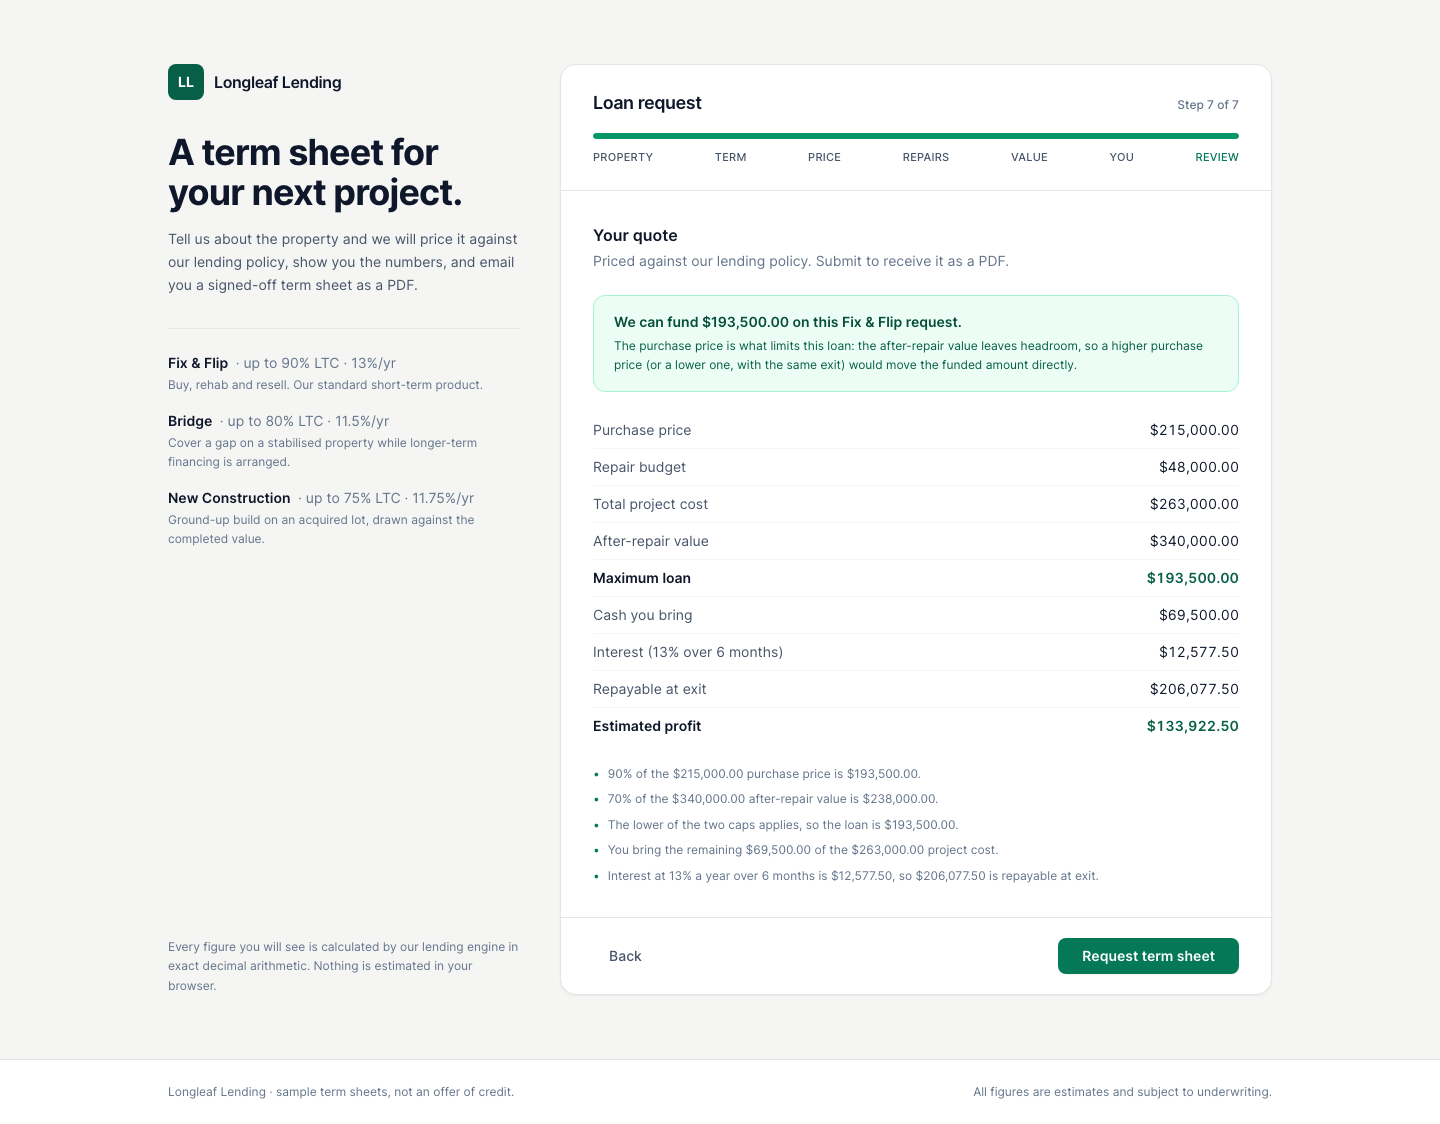
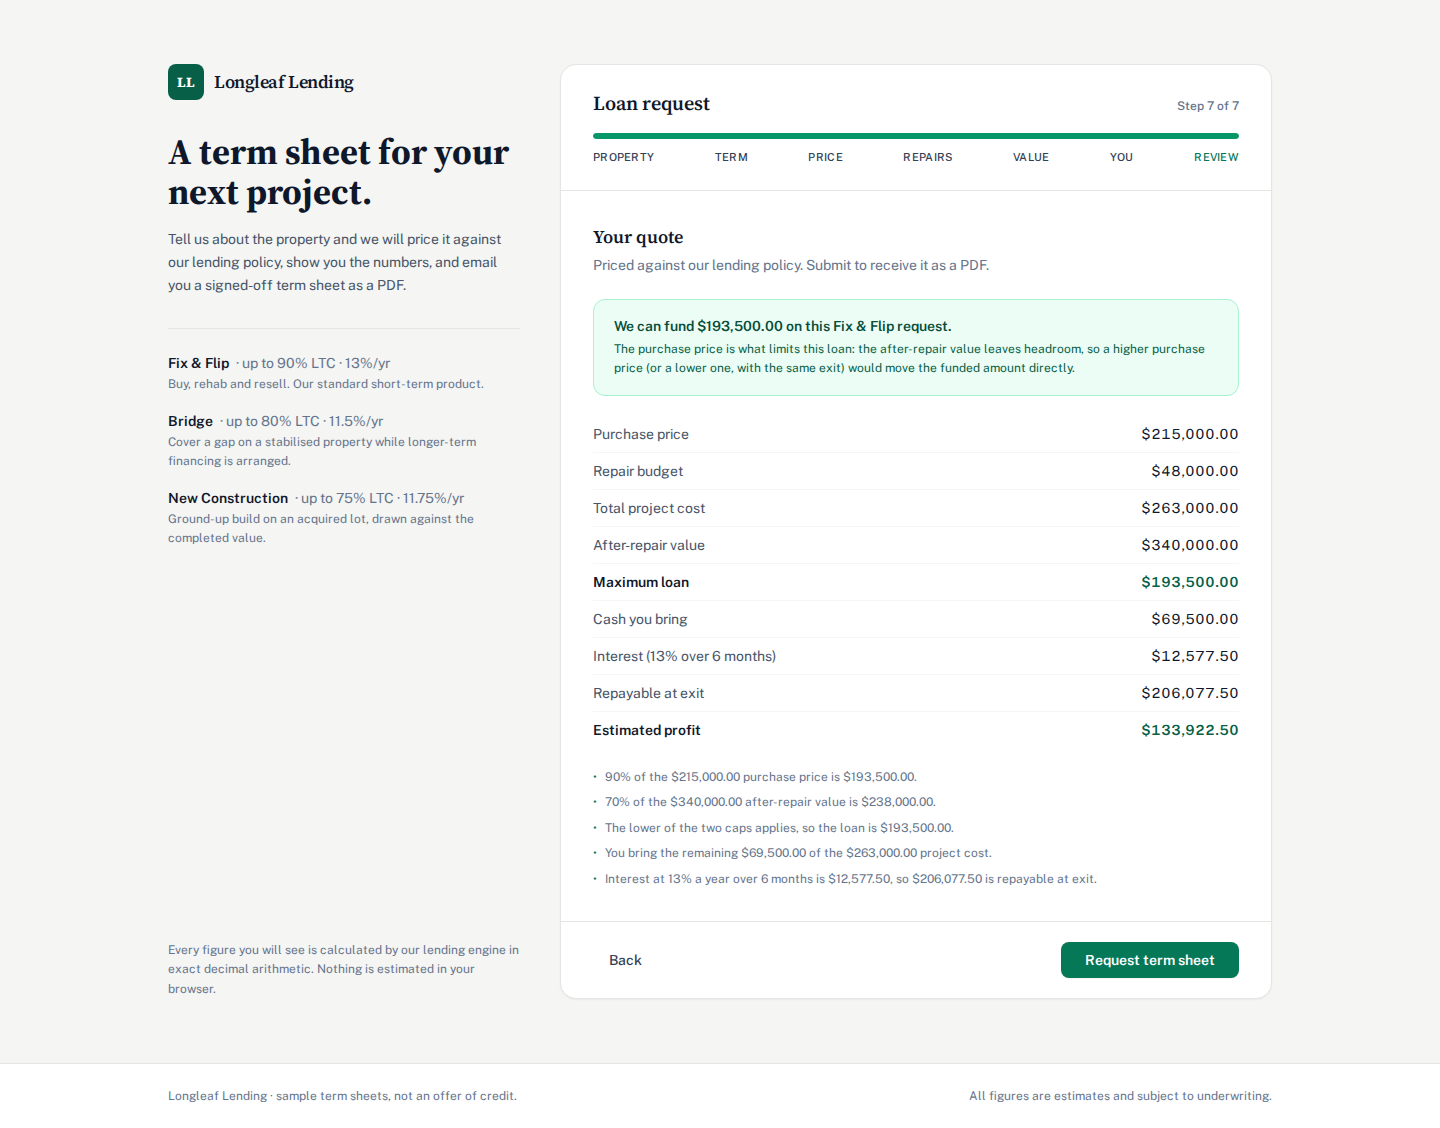
Document the quote endpoint and refresh screenshots at two widths
The README gains a POST /quotes exchange captured from the running app,
the Tailwind build step the specs need, the route-pattern throttles,
phone-width captures and a plain account of what the Docker build has
and has not been run through. Screenshots are from production-mode
containers with the seed data. Adds .env.example for Compose and an
MIT LICENSE, since the project had none.

diff --git a/README.md b/README.md
@@ -5,7 +5,8 @@ The server prices it against a lending product, shows them the figures immediate
 background worker renders a term sheet PDF and emails it.
 
 No login, no dashboard, no admin area — the whole product is one form, the term sheet page it
-redirects to, and the async pipeline in between. Rails 6.1, PostgreSQL, Sidekiq, `wkhtmltopdf`.
+redirects to, and the async pipeline in between. Rails 6.1, PostgreSQL, Sidekiq, `wkhtmltopdf`,
+and three Stimulus controllers served through import maps, so there is no Node build anywhere.
 
 ## The arithmetic is the point
 
@@ -60,9 +61,15 @@ an exact decimal.
 
 ## What a borrower sees
 
-**The form** — seven steps, one question at a time, priced by the server at the end.
+**The form** — seven steps, one question at a time, priced by the server at the end. Each step
+change moves focus to the new step's heading and updates a `progressbar`, so it is not silent
+to a screen reader.
 
 ![The loan request form](docs/screenshots/01-loan-request-form.png)
+
+On a phone the form comes straight after the pitch; the product list moves into the form itself.
+
+<img src="docs/screenshots/01-loan-request-form-mobile.png" alt="The loan request form at phone width" width="300">
 
 **The review step.** The browser does no arithmetic: it posts to `POST /quotes` and renders what
 comes back, so the preview and the PDF cannot disagree.
@@ -70,13 +77,16 @@ comes back, so the preview and the PDF cannot disagree.
 ![The server-priced quote](docs/screenshots/02-server-priced-quote.png)
 
 **The term sheet page.** Figures instantly, recomputed from the stored request rather than
-waited on. Only the download waits for the worker, and the page polls (every 2s, up to 45
-attempts) instead of asking the borrower to refresh.
+waited on. Only the download waits for the worker: until the PDF is attached the button is
+`aria-disabled` and out of the tab order, and the page polls (every 2s, up to 45 attempts)
+instead of asking the borrower to refresh. This capture is that waiting state.
 
 ![The term sheet page](docs/screenshots/03-term-sheet-page.png)
 
+<img src="docs/screenshots/03-term-sheet-page-mobile.png" alt="The term sheet page at phone width" width="300">
+
 **The PDF**, rendered by `wkhtmltopdf` inside the worker and emailed as an attachment — this
-screenshot is the real generated document.
+screenshot is a real generated document, from before the seed addresses moved to `.example`.
 
 ![The generated term sheet PDF](docs/screenshots/04-generated-term-sheet-pdf.png)
 
@@ -172,15 +182,18 @@ and seeding so the worker cannot race it. The form is at http://localhost:8280 a
 sheet email lands in Mailpit at http://localhost:8283; PostgreSQL is on `8281`
 (`longleaf` / `longleaf`) and Redis on `8282`. `docker compose down -v` drops the volume.
 
-> **Docker status, stated plainly.** This repo's own build report records **Build verified:
-> NOT RUN — deferred, RAM constraint** and **Boot verified: NOT RUN — deferred, RAM
-> constraint**, with `docker compose config` parsing OK. A partial build before that
-> deferral did fix two real defects still visible in the Dockerfile: Debian
-> `bullseye-security` now indexes packages its pool no longer carries, so `apt-get install`
-> 404s — hence the commented-out `snapshot.debian.org` source the base image ships for this
-> case being enabled — and `ARG TARGETARCH=amd64` defeated BuildKit's automatic value,
-> pulling an amd64 `wkhtmltox` `.deb` onto arm64, so that default is gone. The application
-> itself was verified end to end *without* Docker, which produced the screenshots above.
+Copy `.env.example` to `.env` if you want a real `SECRET_KEY_BASE` or the generated narrative;
+every variable in it is optional.
+
+> **Docker status, stated plainly.** The image has no Node stage any more, so the build is
+> two apt layers, `bundle install` and `assets:precompile`. Both apt layers have been built:
+> Debian 11 is now served from the `snapshot.debian.org` source the base image ships (the
+> live `bullseye-security` index 404s), and the runtime stage installs the upstream
+> `wkhtmltox` `.deb` for whichever architecture BuildKit targets and checks it with
+> `wkhtmltopdf --version`. The full `docker compose up --build` has not yet been run to
+> completion end to end. What the screenshots show was produced by the same Ruby, gems,
+> `assets:precompile`, `db:prepare` and `db:seed`, running in production mode against
+> PostgreSQL in containers.
 
 Locally, without containers — Ruby 3.1.3, PostgreSQL and Redis. There is no Node step:
 
@@ -192,13 +205,14 @@ bundle exec sidekiq -C config/sidekiq.yml &
 bin/rails server -p 8280
 ```
 
-`wkhtmltopdf` is required — there is no PDF without it. It comes from the
-`wkhtmltopdf-binary` gem, and `WKHTMLTOPDF_PATH` points at a system binary instead. In
-development mail opens in a browser tab via `letter_opener`, with previews at
-`/rails/mailers`.
+`wkhtmltopdf` is required — there is no PDF without it. The development bundle includes the
+`wkhtmltopdf-binary` gem; anywhere else, point `WKHTMLTOPDF_PATH` at a system binary (the
+Docker image installs the upstream `wkhtmltox` build). In development mail opens in a browser
+tab via `letter_opener`, with previews at `/rails/mailers`.
 
 ```bash
-bundle exec rspec                        # 274 examples
+bin/rails tailwindcss:build              # the layout links the built stylesheet, so build it first
+bundle exec rspec                        # 287 examples
 bundle exec rubocop
 bin/rails lending:products               # print the catalog as the app reads it
 bin/rails lending:requeue_stalled        # re-enqueue undelivered requests
@@ -206,6 +220,58 @@ bin/rails lending:requeue_stalled        # re-enqueue undelivered requests
 
 The suite needs PostgreSQL and nothing else: it stubs the queue, the renderer and the mailer, and
 `WebMock` refuses every non-localhost connection, so **no test can make a real API call.**
+
+## The quote endpoint
+
+The review step is a plain JSON call, captured here from the running app (the bridge seed,
+where the after-repair value is the binding cap). It needs the page's CSRF token, like any
+other form post.
+
+```http
+POST /quotes
+Content-Type: application/json
+X-CSRF-Token: <from the page's csrf-token meta tag>
+
+{"quote": {"product_code": "bridge", "loan_term": 9,
+           "purchase_price": "410000", "repair_budget": "22000", "arv": "480000"}}
+```
+
+```json
+{
+  "quote": {
+    "product_code": "bridge",
+    "term_months": 9,
+    "purchase_price_cap": "328000.0",
+    "arv_cap": "312000.0",
+    "max_fundable_amount": "312000.0",
+    "binding_constraint": "arv",
+    "interest_expense": "26910.0",
+    "cash_required": "120000.0",
+    "formatted": { "max_fundable_amount": "$312,000.00", "interest_expense": "$26,910.00", "...": "..." }
+  },
+  "explanation": {
+    "headline": "We can fund $312,000.00 on this Bridge request.",
+    "bullets": [
+      "80% of the $410,000.00 purchase price is $328,000.00.",
+      "65% of the $480,000.00 after-repair value is $312,000.00.",
+      "The lower of the two caps applies, so the loan is $312,000.00.",
+      "You bring the remaining $120,000.00 of the $432,000.00 project cost.",
+      "Interest at 11.5% a year over 9 months is $26,910.00, so $338,910.00 is repayable at exit."
+    ],
+    "narrative": "The after-repair value is what limits this loan. ...",
+    "source": "rules"
+  }
+}
+```
+
+Amounts travel as decimal strings, never JSON numbers, so nothing on the way can turn them into
+floats. A term outside the product's window is refused the same way the submit refuses it:
+
+```http
+HTTP/1.1 422 Unprocessable Entity
+
+{"errors": ["Bridge runs from 3 to 24 months."]}
+```
 
 ## Configuration
 
@@ -294,7 +360,9 @@ product's own window, and a database check constraint (`loan_term_range`) wide e
 every product offered.
 
 **Rate limiting** via `rack-attack`: 5/minute per IP on `POST /loan_requests`, 30/minute on
-`POST /quotes`, since every successful submission spawns a PDF process and sends mail. **`/up`
+`POST /quotes`, since every successful submission spawns a PDF process and sends mail. The
+throttles match the route pattern rather than the literal path, because `/loan_requests.json`
+and `/loan_requests/` reach the same action; `spec/requests/rate_limiting_spec.rb` holds both. **`/up`
 touches the database**, so a process that booted but lost its connection reports unhealthy
 instead of lying to the orchestrator.
 
@@ -313,3 +381,7 @@ instead of lying to the orchestrator.
 - **No Sidekiq web UI is mounted.** It would need authentication in front of it first.
 - **The generated narrative is English only**, and the numeric guard's token rules assume `$` and
   `%`. A second currency or locale needs both revisited.
+
+## License
+
+MIT — see [LICENSE](LICENSE).
